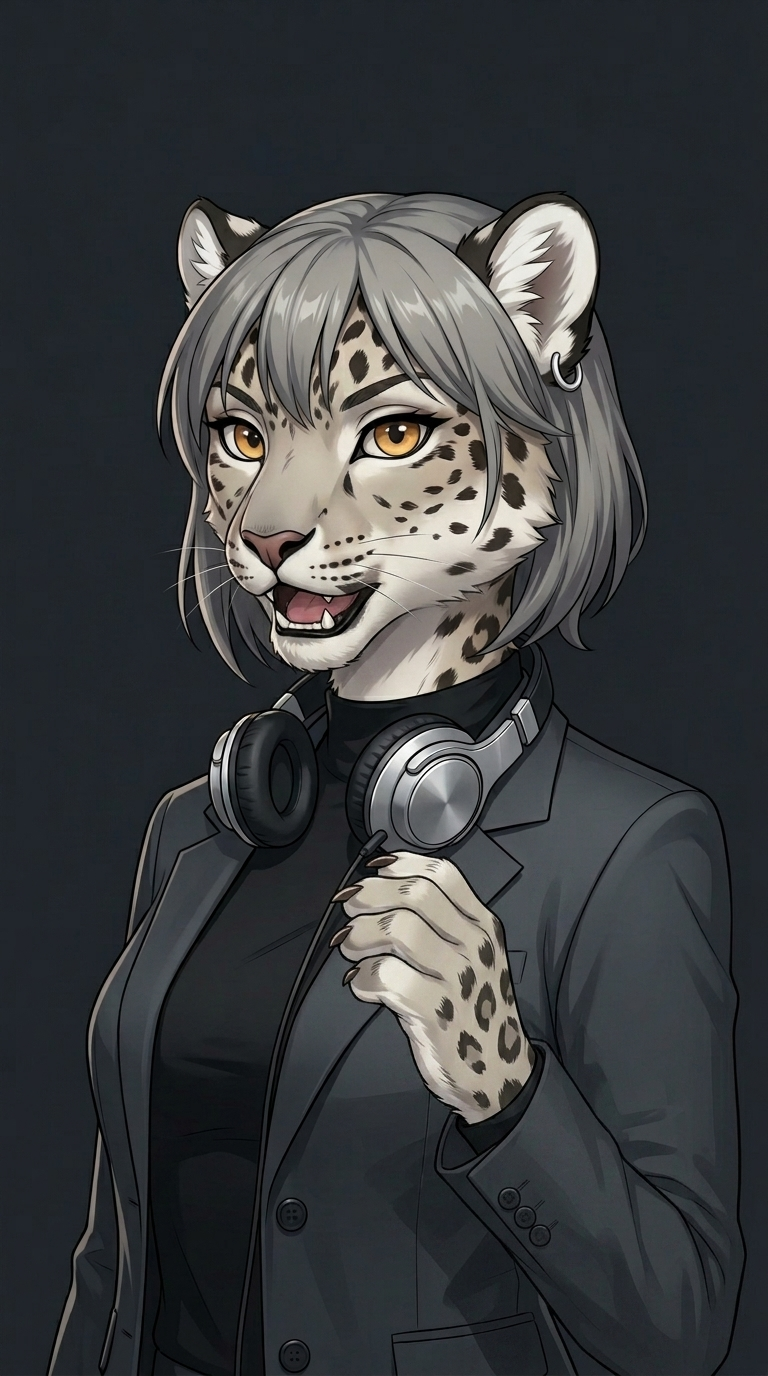
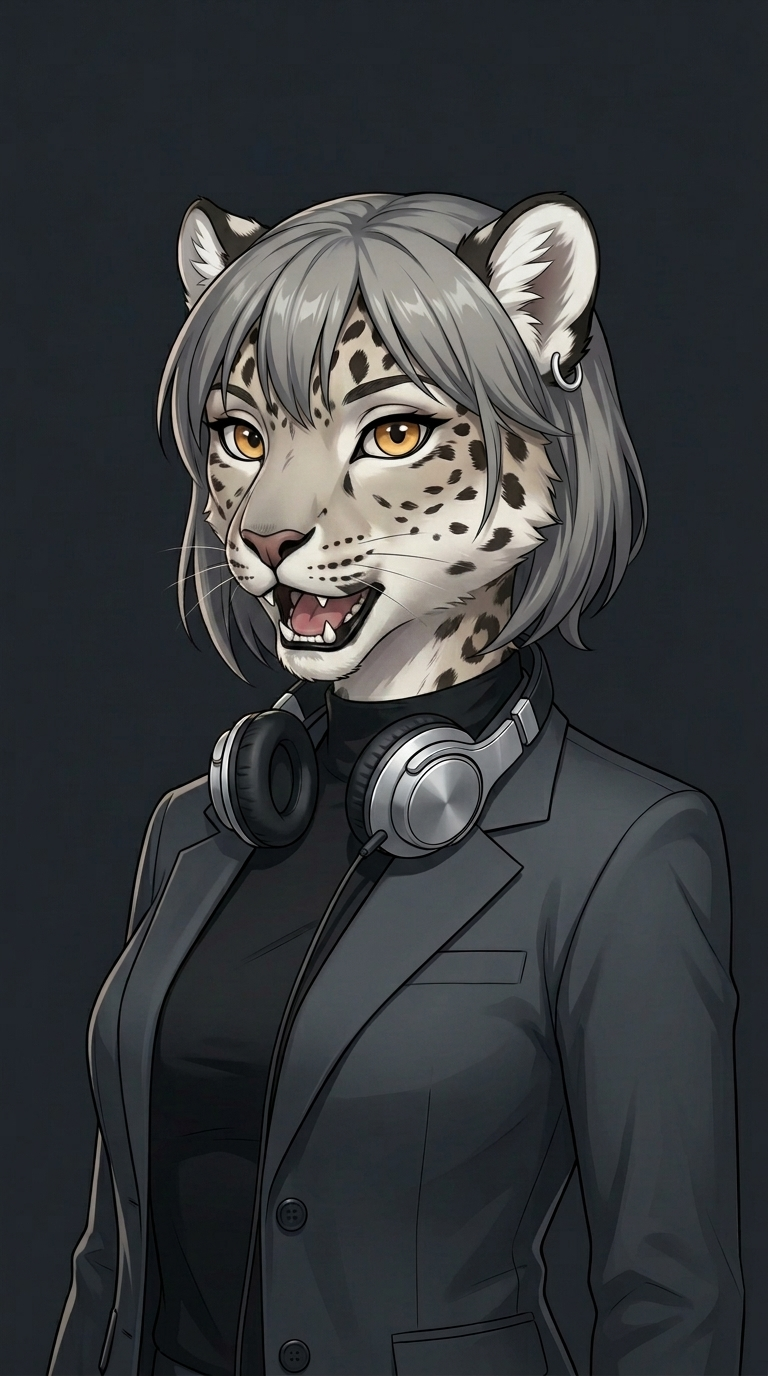
feat(pipeline): strict sponsor read exclusion, precise mouth lip sync without hand flapping, and timed emphasis hand gestures

diff --git a/main.py b/main.py
@@ -837,15 +837,36 @@ def select_viral_clip_with_groq(
             "speaker_badge": podcast_entry.get("name", "Podcast")
         }
         
+    SPONSOR_KEYWORDS = [
+        "sponsor", "sponsored", "brought to you by", "promo code", "discount code", "use code",
+        "athletic greens", "ag1", "betterhelp", "expressvpn", "nordvpn", "squarespace", "shopify",
+        "manscaped", "audible", "cash app", "eight sleep", "blinkist", "hello fresh", "factor",
+        "magic spoon", "patreon", "subscribestar", "advertisement", "support the podcast", "merch",
+        "our sponsors", "today's sponsor", "free trial", "percent off", "check out"
+    ]
+    
+    # Filter out early sponsor reads from candidate segments for Part 1
+    clean_segments = []
+    if transcript_segments:
+        for seg in transcript_segments:
+            seg_text = seg.get("text", "").lower()
+            is_sponsor = any(kw in seg_text for kw in SPONSOR_KEYWORDS)
+            if not is_sponsor or seg.get("start", 0) > 400.0:
+                clean_segments.append(seg)
+                
     client = Groq(api_key=groq_api_key)
     system_prompt = (
         "You are an expert viral YouTube Shorts content strategist specializing in "
-        "podcasts, philosophy, science, and high-impact discussions."
+        "podcasts, philosophy, science, and high-impact discussions.\n"
+        "CRITICAL RULE: YOU MUST NEVER SELECT SPONSOR READS, ADVERTISEMENTS, PRODUCT ENDORSEMENTS, "
+        "PROMO CODES, OR HOUSEKEEPING INTROS. ONLY SELECT CORE INTELLECTUAL, PHILOSOPHICAL, "
+        "SCIENTIFIC, OR LIFE-CHANGING INSIGHTS."
     )
     user_prompt = f"""
 Podcast: {podcast_entry.get('name', 'Podcast')}
 Episode Title: {video_meta.get('title', 'Episode')}
 Goal: {goal_instruction}
+STRICT REQUIREMENT: NO SPONSOR ADS, NO PROMO CODES, NO PRODUCT PLUGS. Pick pure wisdom / high-value insight.
 
 Transcript:
 {formatted_transcript}
@@ -877,8 +898,9 @@ JSON Schema:
             raw_content = resp.choices[0].message.content
             clip_data = parse_llm_json(raw_content)
             
-            min_start = max(0.0, continuation_start_sec + 0.5 if (continuation_start_sec and part_number > 1) else 0.0)
-            raw_start = max(min_start, float(clip_data.get("start_seconds", min_start)))
+            # Ensure we start after intro sponsors for Part 1 (at least 150s in unless multi-part continuation)
+            base_min = (continuation_start_sec + 0.5) if (continuation_start_sec and part_number > 1) else (150.0 if clean_segments and clean_segments[0].get("start", 0) > 150 else 30.0)
+            raw_start = max(base_min, float(clip_data.get("start_seconds", base_min)))
             raw_end = float(clip_data.get("end_seconds", raw_start + 45.0))
             
             start_sec, end_sec = snap_clip_to_sentence_boundary(transcript_segments, raw_start, raw_end)
@@ -892,8 +914,8 @@ JSON Schema:
         except Exception as ge:
             log(f"⚠ Groq highlight detection notice: {ge}")
             
-    # Fallback to deterministic sequential slice
-    default_start = continuation_start_sec + 1.0 if continuation_start_sec else 30.0
+    # Fallback to deterministic sequential slice (skipping early sponsor block for Part 1)
+    default_start = continuation_start_sec + 1.0 if continuation_start_sec else 150.0
     start_sec, end_sec = snap_clip_to_sentence_boundary(transcript_segments, default_start, default_start + 45.0)
     return {
         "start_seconds": start_sec,
@@ -1355,28 +1377,32 @@ def get_cute_animal_image_info(gender: str = "male") -> Path:
     return None
 
 
-def get_character_mouth_pair(char_dir: Path, gender: str = "male") -> tuple:
+def get_character_mouth_trio(char_dir: Path, gender: str = "male") -> tuple:
     """
-    Returns (mouth_closed_path, mouth_open_path) for a character.
+    Returns (mouth_closed_path, mouth_open_path, gesture_pose_path) for a character.
     """
+    if not char_dir or not char_dir.exists():
+        fallback = get_cute_animal_image_info(gender)
+        return (fallback, fallback, fallback)
+        
     closed = char_dir / "mouth_closed.jpg"
     open_p = char_dir / "mouth_open.jpg"
-    if closed.exists() and open_p.exists():
-        return (closed, open_p)
-    imgs = sorted(list(char_dir.glob("*.jpg")) + list(char_dir.glob("*.png")))
-    if len(imgs) >= 2:
-        return (imgs[0], imgs[1])
-    elif imgs:
-        return (imgs[0], imgs[0])
-    fallback = get_cute_animal_image_info(gender)
-    return (fallback, fallback)
+    gesture = char_dir / "gesture_pose.jpg"
+    
+    if not closed.exists():
+        closed = get_cute_animal_image_info(gender)
+    if not open_p.exists():
+        open_p = closed
+    if not gesture.exists():
+        gesture = open_p
+        
+    return (closed, open_p, gesture)
 
 
 def get_dual_speaker_avatars(host_gender: str = "male", guest_gender: str = "male") -> tuple:
     """
-    Finds mouth-closed & mouth-open avatar pairs for both speakers (Host on Left, Guest on Right)
-    ensuring they use distinct adult anime characters with matching uniform studio backgrounds.
-    Returns: ((host_closed, host_open), (guest_closed, guest_open))
+    Finds mouth-closed, mouth-open (hands down), and gesture-pose avatar sets for both speakers.
+    Returns: ((host_closed, host_open, host_gesture), (guest_closed, guest_open, guest_gesture))
     """
     base_dir = Path(__file__).resolve().parent / "assets" / "images" / "avatars"
     
@@ -1393,10 +1419,10 @@ def get_dual_speaker_avatars(host_gender: str = "male", guest_gender: str = "mal
     else:
         guest_char = host_char
         
-    host_pair = get_character_mouth_pair(host_char, host_gender) if host_char else (None, None)
-    guest_pair = get_character_mouth_pair(guest_char, guest_gender) if guest_char else (None, None)
+    host_trio = get_character_mouth_trio(host_char, host_gender)
+    guest_trio = get_character_mouth_trio(guest_char, guest_gender)
     
-    return (host_pair, guest_pair)
+    return (host_trio, guest_trio)
 
 
 def get_character_pose_sequence(gender: str = "male") -> list:
@@ -1477,8 +1503,9 @@ def render_studio_visualizer_short(
     Renders a 1080x1920 split-screen animated viral short:
     - Top half (1080x960): Dual speaker podcast studio layout (Host on Left, Guest on Right)
       with matching uniform dark grey studio background (#1A1C22) and center spacing gap.
-      Speaking avatar actively animates mouth movement, shakes to voice tone & expands +10%,
-      active speaker cyan rim spotlight glow, and 3-second hook banner.
+      Speaking avatar actively animates precise mouth lip-sync (hands down), with hand gesture
+      appearing only once or twice for 1.7s at key moments, active speaker cyan rim spotlight glow,
+      and 3-second curiosity hook banner.
     - Bottom half (1080x960): Subway Surfers gameplay footage
     - Audio: Sample-accurate speech + calm BGM + subtle whoosh micro-SFX on hook entrance
     - Overlays: Floating speaker badge, 3s curiosity hook banner, middle kinetic neon subtitles, bottom retention bar
@@ -1518,7 +1545,7 @@ def render_studio_visualizer_short(
         font_opt = "font='DejaVu Sans'"
 
     bg_path, bg_dur = get_background_video_info()
-    (host_closed, host_open), (guest_closed, guest_open) = get_dual_speaker_avatars(host_gender, detected_guest_gender)
+    (host_closed, host_open, host_gesture), (guest_closed, guest_open, guest_gesture) = get_dual_speaker_avatars(host_gender, detected_guest_gender)
     bgm_path = get_background_music_info()
     sfx_whoosh_path = get_sfx_info("whoosh")
     has_bgm = bool(bgm_path and bgm_path.exists())
@@ -1544,9 +1571,16 @@ def render_studio_visualizer_short(
     spk_guest = spk_active_all
     spk_host = "0"
     
-    if bg_path and bg_path.exists() and host_closed and host_open and guest_closed and guest_open:
+    # Hand gesture triggers ONLY once or twice per short for 1.7 seconds at key moments
+    if duration >= 25.0:
+        guest_gesture_cond = "between(t,7.5,9.2)+between(t,23.5,25.2)"
+    else:
+        guest_gesture_cond = "between(t,6.5,8.2)"
+    host_gesture_cond = "0"
+    
+    if bg_path and bg_path.exists() and host_closed and host_open and host_gesture and guest_closed and guest_open and guest_gesture:
         bg_start = random.uniform(0.0, max(0.0, bg_dur - duration - 1.0))
-        log(f"🐱 Using dual-speaker studio layout with mouth movement & spacing gap ({host_closed.parent.name} vs {guest_closed.parent.name})...")
+        log(f"🐱 Using dual-speaker studio layout with precise lip-sync & occasional hand gestures ({host_closed.parent.name} vs {guest_closed.parent.name})...")
         
         # Base input index offset:
         # 0: bg_video, 1: audio_slice
@@ -1565,14 +1599,18 @@ def render_studio_visualizer_short(
             
         hc_idx = curr_inp_idx
         ho_idx = curr_inp_idx + 1
-        gc_idx = curr_inp_idx + 2
-        go_idx = curr_inp_idx + 3
+        hg_idx = curr_inp_idx + 2
+        gc_idx = curr_inp_idx + 3
+        go_idx = curr_inp_idx + 4
+        gg_idx = curr_inp_idx + 5
         
-        # Left Host Avatar Filter (500x940) with inward hflip, mouth movement & vocal tone shake
+        # Left Host Avatar Filter (500x940) with inward hflip, mouth movement (hands down) & occasional gesture
         left_av_filter = (
             f"[{hc_idx}:v]hflip,scale=560:980:force_original_aspect_ratio=increase,crop=560:980,loop=loop=-1:size=1:start=0[hc];"
             f"[{ho_idx}:v]hflip,scale=560:980:force_original_aspect_ratio=increase,crop=560:980,loop=loop=-1:size=1:start=0[ho];"
-            f"[hc][ho]overlay=0:0:enable='if({spk_host}, lt(mod(t,0.22),0.13), 0)'[h_comp];"
+            f"[{hg_idx}:v]hflip,scale=560:980:force_original_aspect_ratio=increase,crop=560:980,loop=loop=-1:size=1:start=0[hg];"
+            f"[hc][ho]overlay=0:0:enable='if({spk_host}, lt(mod(t,0.20),0.12), 0)'[h_talk];"
+            f"[h_talk][hg]overlay=0:0:enable='if({spk_host}, {host_gesture_cond}, 0)'[h_comp];"
             f"[h_comp]crop="
             f"w='if({spk_host}, 500/1.08, 500)':"
             f"h='if({spk_host}, 940/1.08, 940)':"
@@ -1581,11 +1619,13 @@ def render_studio_visualizer_short(
             f"scale=500:940,setsar=1[left_av]"
         )
         
-        # Right Guest Avatar Filter (500x940) with mouth movement & vocal tone shake
+        # Right Guest Avatar Filter (500x940) with mouth movement (hands down) & occasional gesture
         right_av_filter = (
             f"[{gc_idx}:v]scale=560:980:force_original_aspect_ratio=increase,crop=560:980,loop=loop=-1:size=1:start=0[gc];"
             f"[{go_idx}:v]scale=560:980:force_original_aspect_ratio=increase,crop=560:980,loop=loop=-1:size=1:start=0[go];"
-            f"[gc][go]overlay=0:0:enable='if({spk_guest}, lt(mod(t,0.22),0.13), 0)'[g_comp];"
+            f"[{gg_idx}:v]scale=560:980:force_original_aspect_ratio=increase,crop=560:980,loop=loop=-1:size=1:start=0[gg];"
+            f"[gc][go]overlay=0:0:enable='if({spk_guest}, lt(mod(t,0.20),0.12), 0)'[g_talk];"
+            f"[g_talk][gg]overlay=0:0:enable='if({spk_guest}, {guest_gesture_cond}, 0)'[g_comp];"
             f"[g_comp]crop="
             f"w='if({spk_guest}, 500/1.08, 500)':"
             f"h='if({spk_guest}, 940/1.08, 940)':"
@@ -1637,12 +1677,14 @@ def render_studio_visualizer_short(
             cmd.extend(["-i", str(sfx_whoosh_path)])
             audio_mix_inputs.append("[whoosh]")
             
-        # Add mouth-closed and mouth-open avatar images
+        # Add mouth-closed, mouth-open (hands down), and gesture-pose avatar images
         cmd.extend([
             "-i", str(host_closed),
             "-i", str(host_open),
+            "-i", str(host_gesture),
             "-i", str(guest_closed),
-            "-i", str(guest_open)
+            "-i", str(guest_open),
+            "-i", str(guest_gesture)
         ])
             
         a_filter_parts = ["[1:a]loudnorm=I=-14:LRA=7:TP=-1.5[voice]"]
